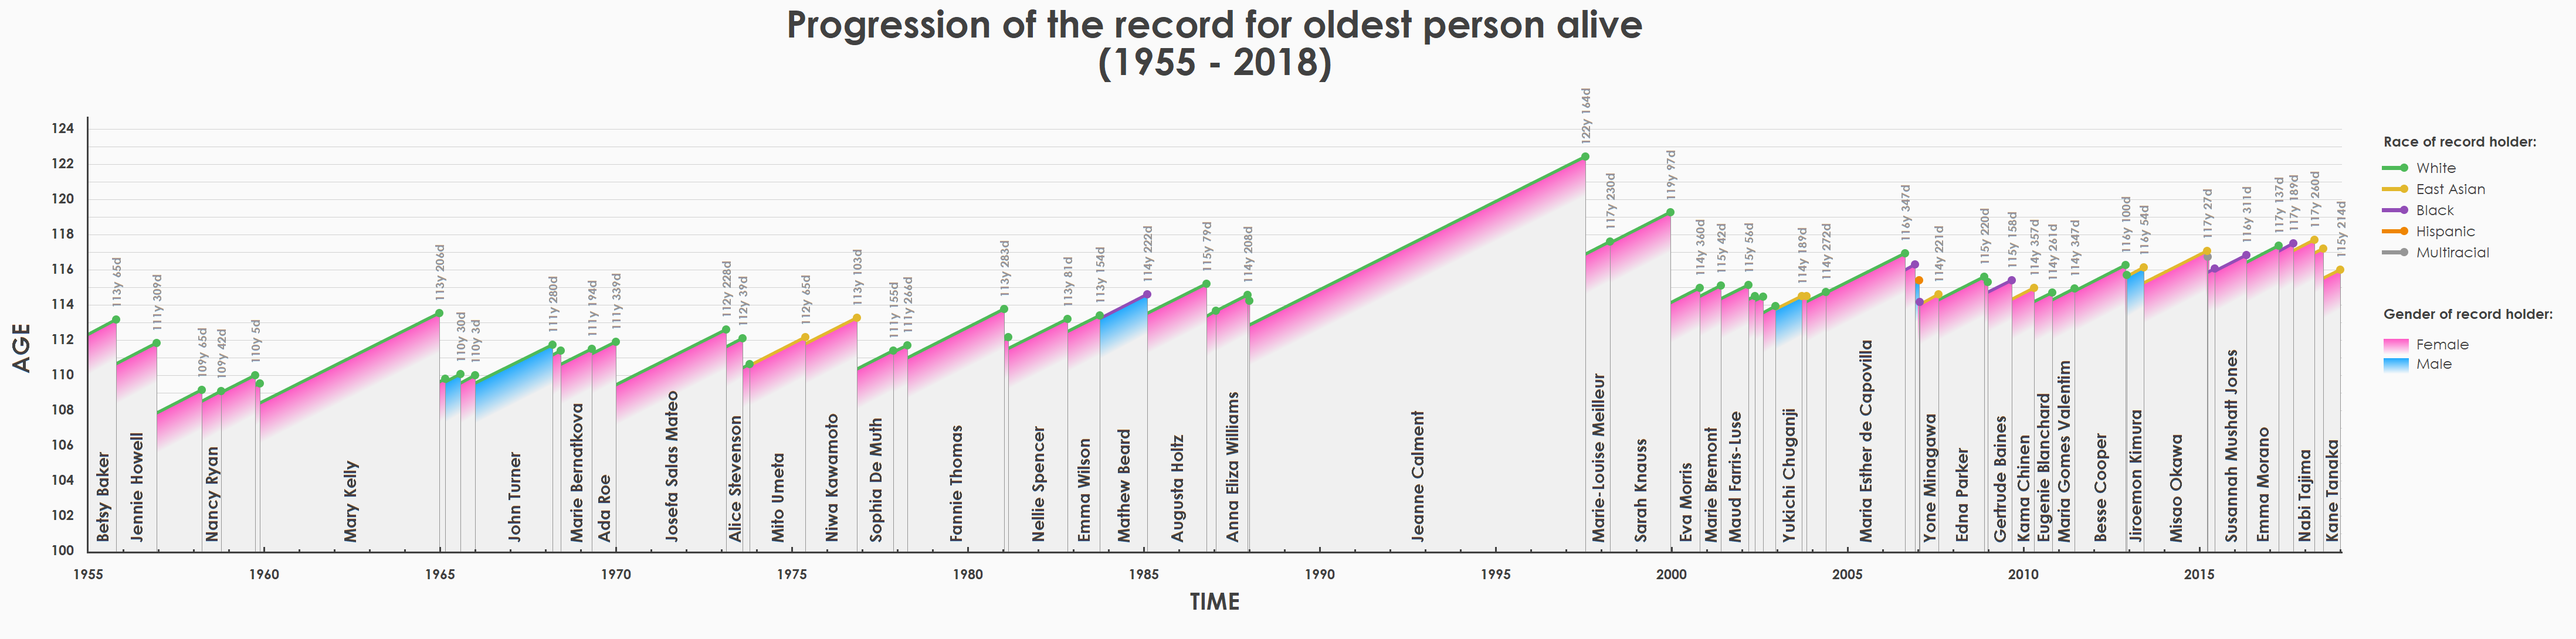
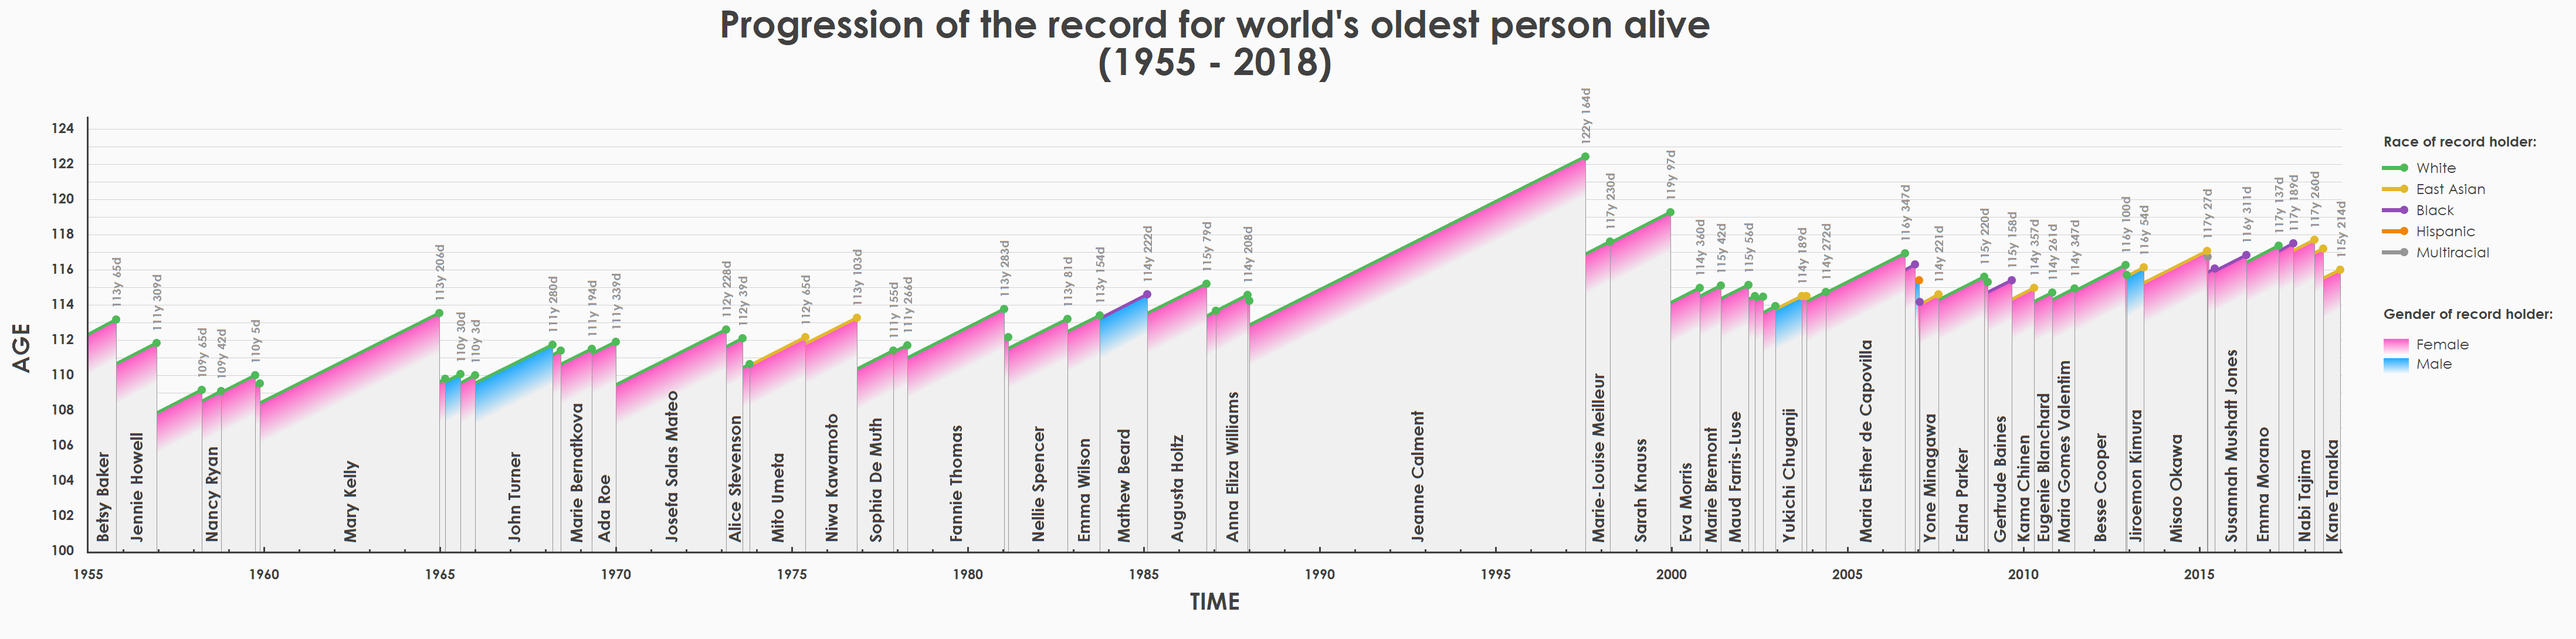
Changed chart title
From "Progression of the record for oldest person alive" to "Progression of the record for world's oldest person alive"

Changed region(s): [[0.2807, 0.0, 0.6862, 0.0624]]

diff --git a/DataViz_2019jan_OldestPeople/src/Main.java b/DataViz_2019jan_OldestPeople/src/Main.java
@@ -316,7 +316,7 @@ public class Main {
         g.setRenderingHint(RenderingHints.KEY_TEXT_ANTIALIASING,
                 RenderingHints.VALUE_TEXT_ANTIALIAS_LCD_HRGB);
         g.setFont(new Font("Century Gothic", Font.BOLD, TITLE_FONT_SIZE));
-        String string = "Progression of the record for oldest person alive";
+        String string = "Progression of the record for world's oldest person alive";
         int stringWidth = g.getFontMetrics().stringWidth(string);
         g.drawString(string, LEFT_PADDING + (width - HORIZONTAL_PADDING) / 2 - stringWidth / 2, TITLE_FONT_SIZE);
         string = "(1955 - 2018)";
